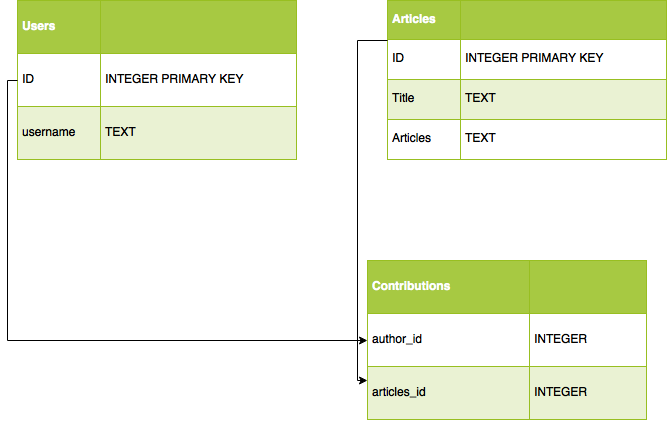
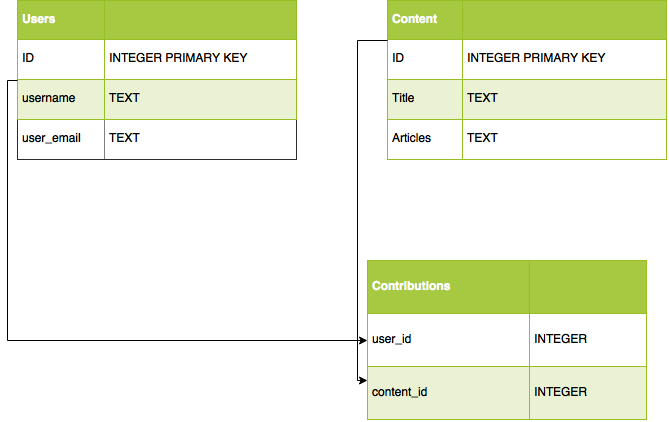
trying to get email to work

diff --git a/app.js b/app.js
@@ -8,8 +8,7 @@ var methodOverride = require('method-override');
 var urlencodedBodyParser = bodyParser.urlencoded({extended: false});
 var marked = require('marked');
 
-var sendgrid = require('sendgrid')('');
-
+var sendgrid = require('sendgrid')(api_key);
 
 app.use(urlencodedBodyParser);
 app.use(methodOverride('_method'));
@@ -42,14 +41,15 @@ app.get('/VCP/results', function(req, res) {
 
 // rendering the page to input a new article
 app.get('/VCP/new', function(req, res) {
-  db.all('SELECT * FROM content', function(err, rows) {
+  db.all('SELECT * FROM content, users', function(err, rows) {
     res.render('new.ejs', {users: rows});
   })
 });
 
 // Posting the new article and information and storing it in the wiki.db (database)
 app.post('/VCP/new', function(req, res) {
-  db.run('INSERT INTO content (user_email, title, article, user_id) VALUES (?,?,?)', req.body.title, req.body.article, req.body.user_id, function(err) {
+  // How to draw from the users table to grab the user_email?
+  db.run('INSERT INTO content (user_email, title, article, user_id) VALUES (?,?,?,?)', req.body.user_email, req.body.title, req.body.article, req.body.user_id, function(err) {
     if (err) throw err;
     else {
       res.redirect('/VCP');
@@ -63,12 +63,12 @@ app.get('/VCP/:id', function(req, res) {
   db.get('SELECT content.*, users.username FROM content INNER JOIN users ON users.user_id = content.user_id WHERE content_id = ?', parseInt(req.params.id), function (err, row) {
     if (err) throw err;
     else {
-      console.log(typeof marked(row.article));
+      // console.log(typeof marked(row.article));
       res.render('show.ejs', {article: row, markdown: marked(row.article)});
+      // This is affected by the put for some reason...
     }
   });
 });
-
 
 app.get('/VCP/:id/edit', function(req, res) {
   db.get('SELECT * FROM content WHERE content_id = ?', parseInt(req.params.id), function(err, info) {
@@ -83,17 +83,16 @@ app.get('/VCP/:id/edit', function(req, res) {
 
 app.put('/VCP/:id', function(req, res) {
   db.run('UPDATE content SET title = ?, article = ? WHERE content_id = ?', req.body.title, req.body.article, req.params.id, function(err) {
-    console.log(req.body);
     if (err) throw err;
     else {
       console.log('content updated');
       res.redirect('/VCP');
-      db.get('SELECT content.*, users.user_email FROM content INNER JOIN users ON users.user_id = content.user_id WHERE content_id = ?', req.body.user_id, function(err) {
+      db.get('SELECT users.user_email FROM users INNER JOIN content ON users.user_id = content.user_id WHERE content.content_id = ?', req.body.user_id, function(err) {
         var email = new sendgrid.Email({
-          to:       'user_email',
-          from:     'mperkins1993@gmail.com',
-          subject:  'A Vitriolic Cherry Pitt Update',
-          text:     "Hi!\n You're article has been edited! Please check the edits to see what has been done to it!\n Thanks for contributing to the wiki!"
+          to: 'user_email',
+          from: 'mperkins1993@gmail.com',
+          subject: 'A Vitriolic Cherry Pitt Update',
+          text: "Hi!\n You're article has been edited! Please check the edits to see what has been done to it!\n Thanks for contributing to the wiki!"
         });
         sendgrid.send(email, function(err, json) {
           if (err) { 
